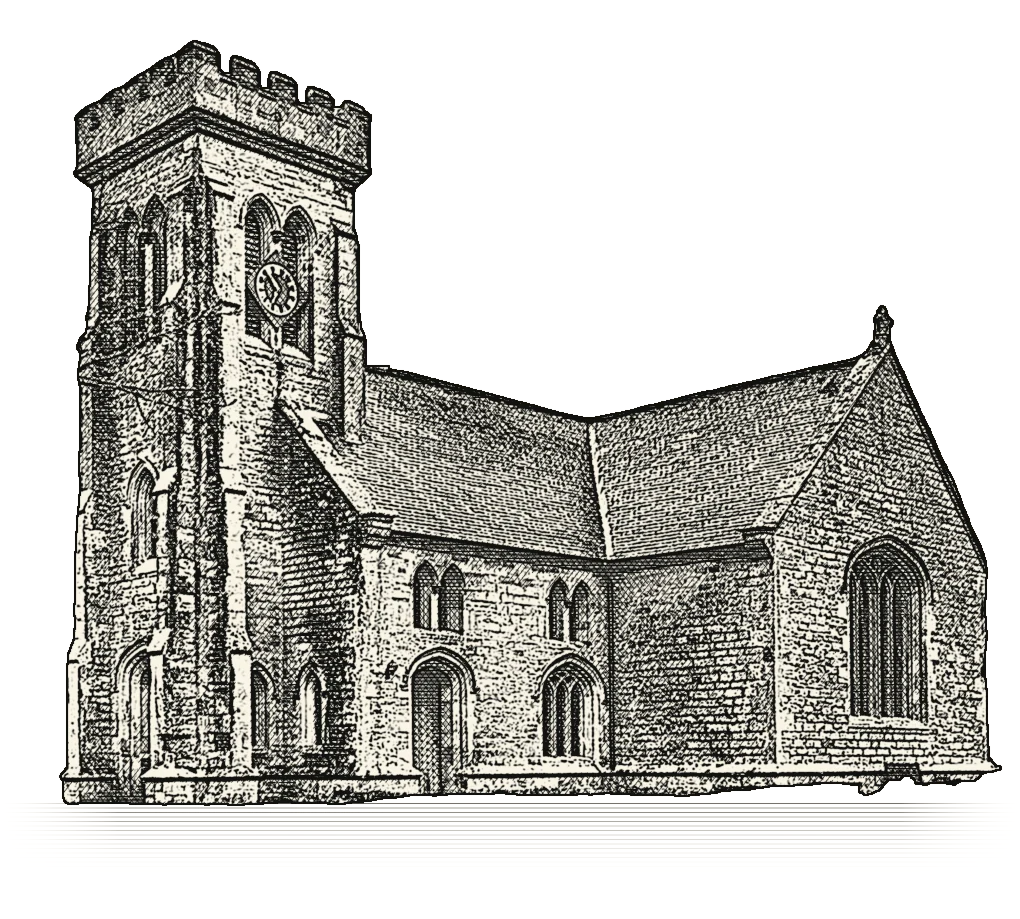
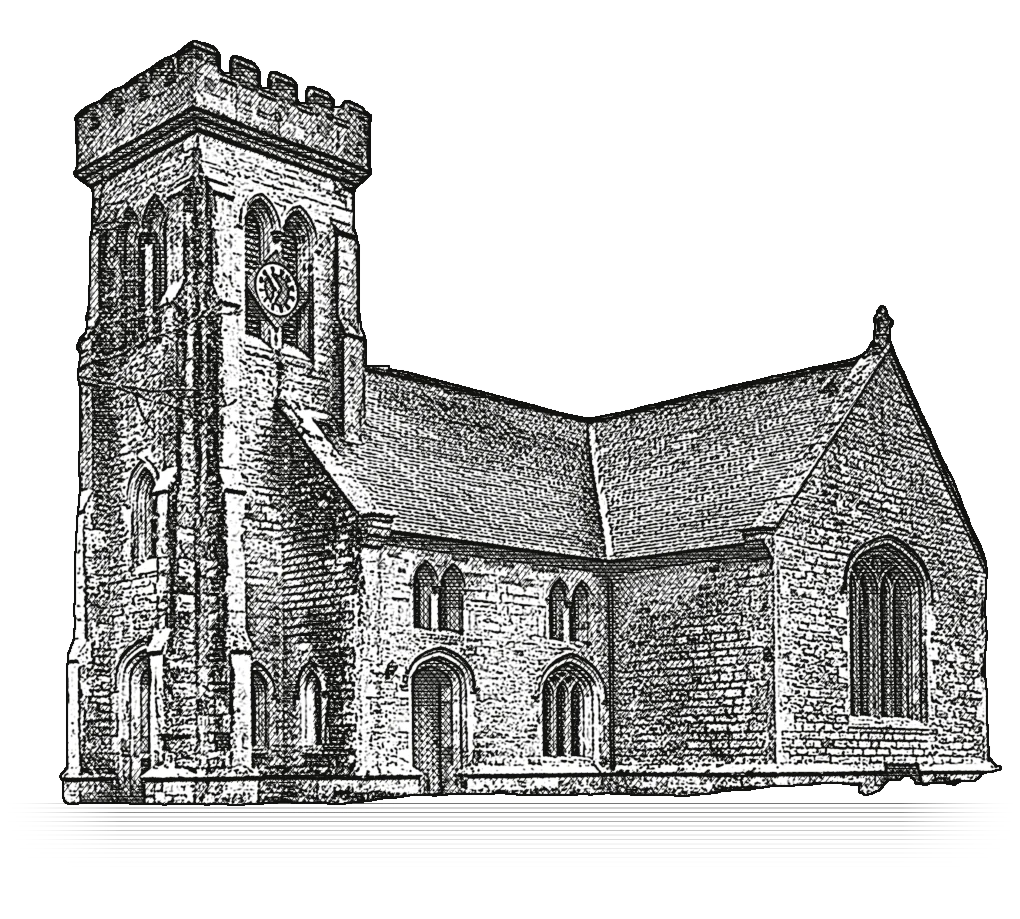
White background
Claude-Session: https://claude.ai/code/session_018ukjFhsFfPaMdqjnQt9uJa

diff --git a/src/styles/global.css b/src/styles/global.css
@@ -1891,3 +1891,8 @@ h1, h2, h3, .tile h3 { text-wrap: balance; }
 @media (max-width: 40rem) { .site-head .site-nav { flex-wrap: nowrap; overflow-x: auto; scrollbar-width: none; } .site-head .site-nav a { white-space: nowrap; } }
 /* settle, no bounce */
 .give-card { transition-timing-function: cubic-bezier(0.2, 0.9, 0.3, 1); }
+
+/* ================= white ground ================= */
+:root { --paper: #ffffff; --card: #f7f6f1; --pink-lite: #ffffff; --slate: #ffffff; --stone-pale: #ffffff; --panel: #f1f0ea; }
+body { background: #ffffff; }
+.etch-plate img { mix-blend-mode: multiply; }
